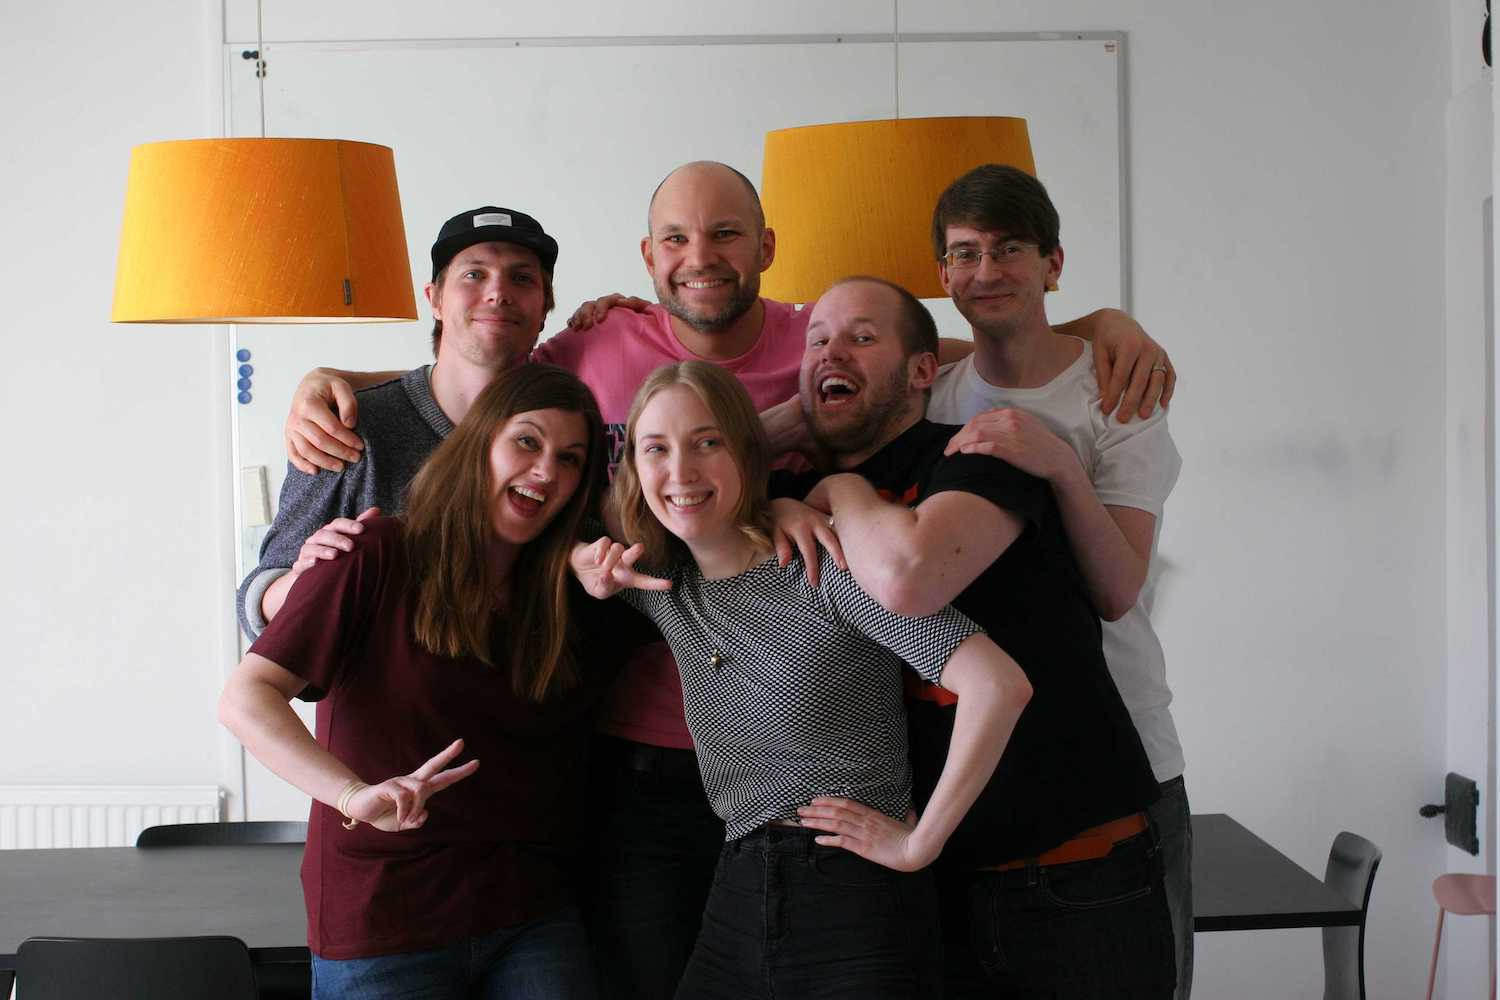
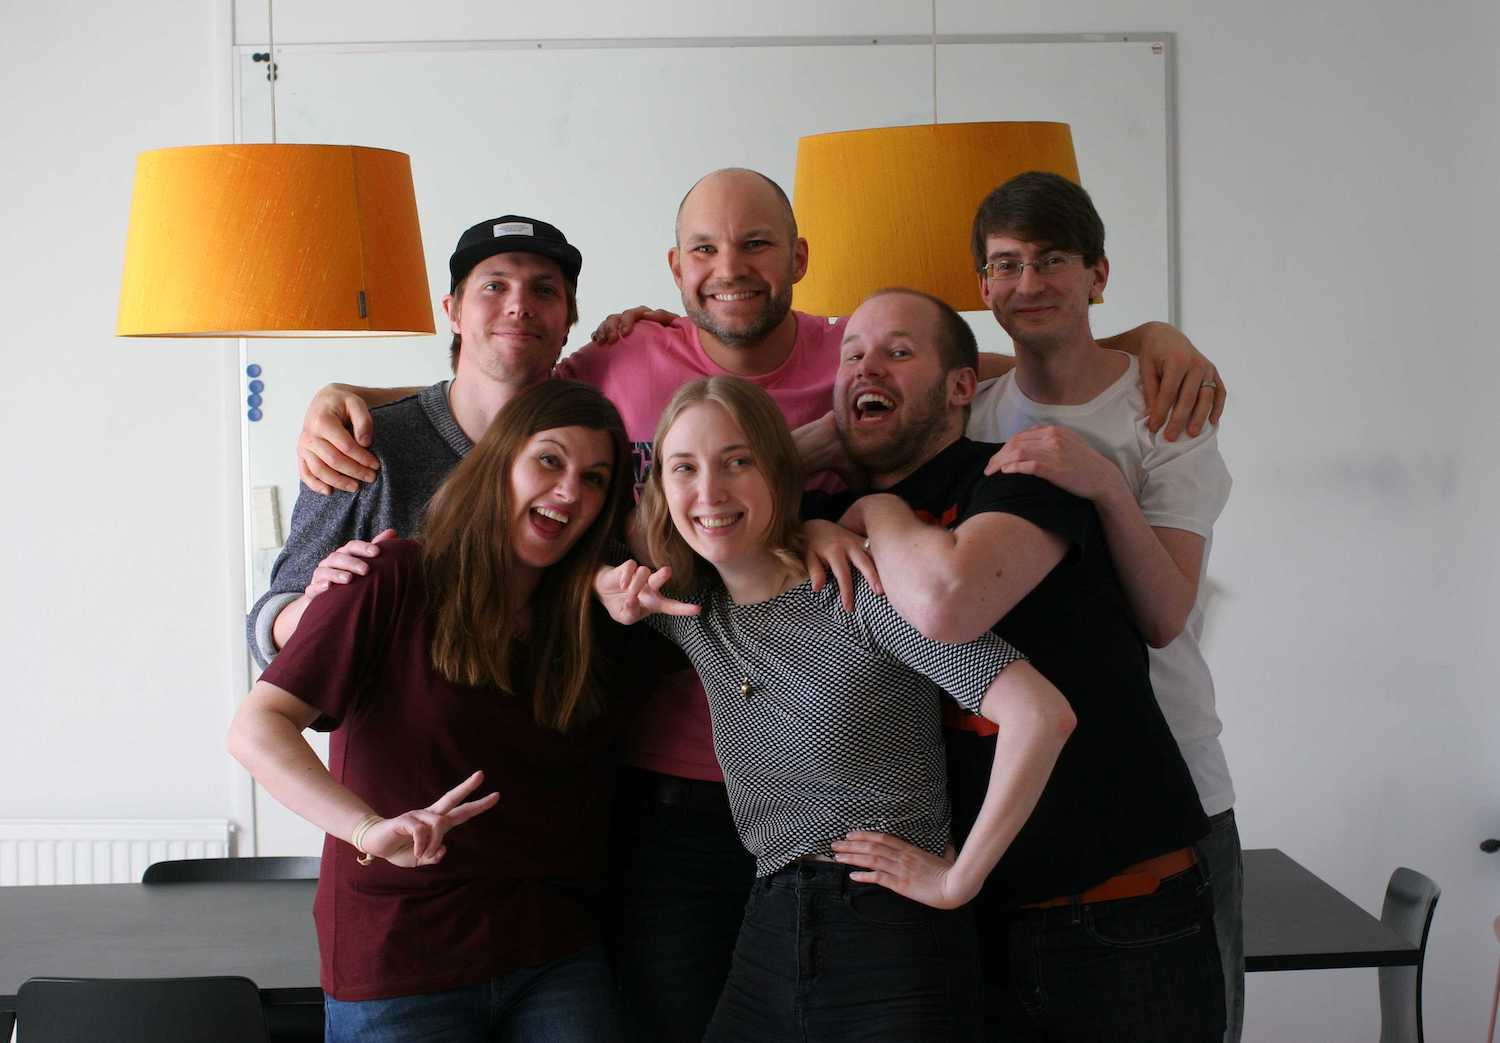
feat: background image and some colors

diff --git a/docs/global.css b/docs/global.css
@@ -1,7 +1,11 @@
 @import url('https://fonts.googleapis.com/css2?family=Roboto:wght@100;200;300;400&display=swap');
 
 :root {
-  --light-gray: #f7f7f7;
+  --crow-feathers: #1c2321;
+  --sproud: #eef1ef;
+  --angry-clouds: #b2bfc2;
+  --grålera: #909da1;
+  --midnight-sand: #6f7f88;
   --cornflower: #668cff;
 }
 
@@ -9,7 +13,7 @@ html,
 body {
   height: 100%;
   width: 100%;
-  background-color: var(--cornflower);
+  background-color: var(--angry-clouds);
 }
 
 body {

diff --git a/src/Main.svelte b/src/Main.svelte
@@ -65,10 +65,11 @@
   main {
     width: 100%;
     height: 100%;
-    background-color: var(--light-gray);
     background-image: url('/teambild.jpg');
     background-position: center;
     background-repeat: no-repeat;
+    box-shadow: 0 4px 8px 0 var(--midnight-sand),
+      0 6px 20px 0 var(--midnight-sand);
   }
 
   @media (min-width: 640px) {
